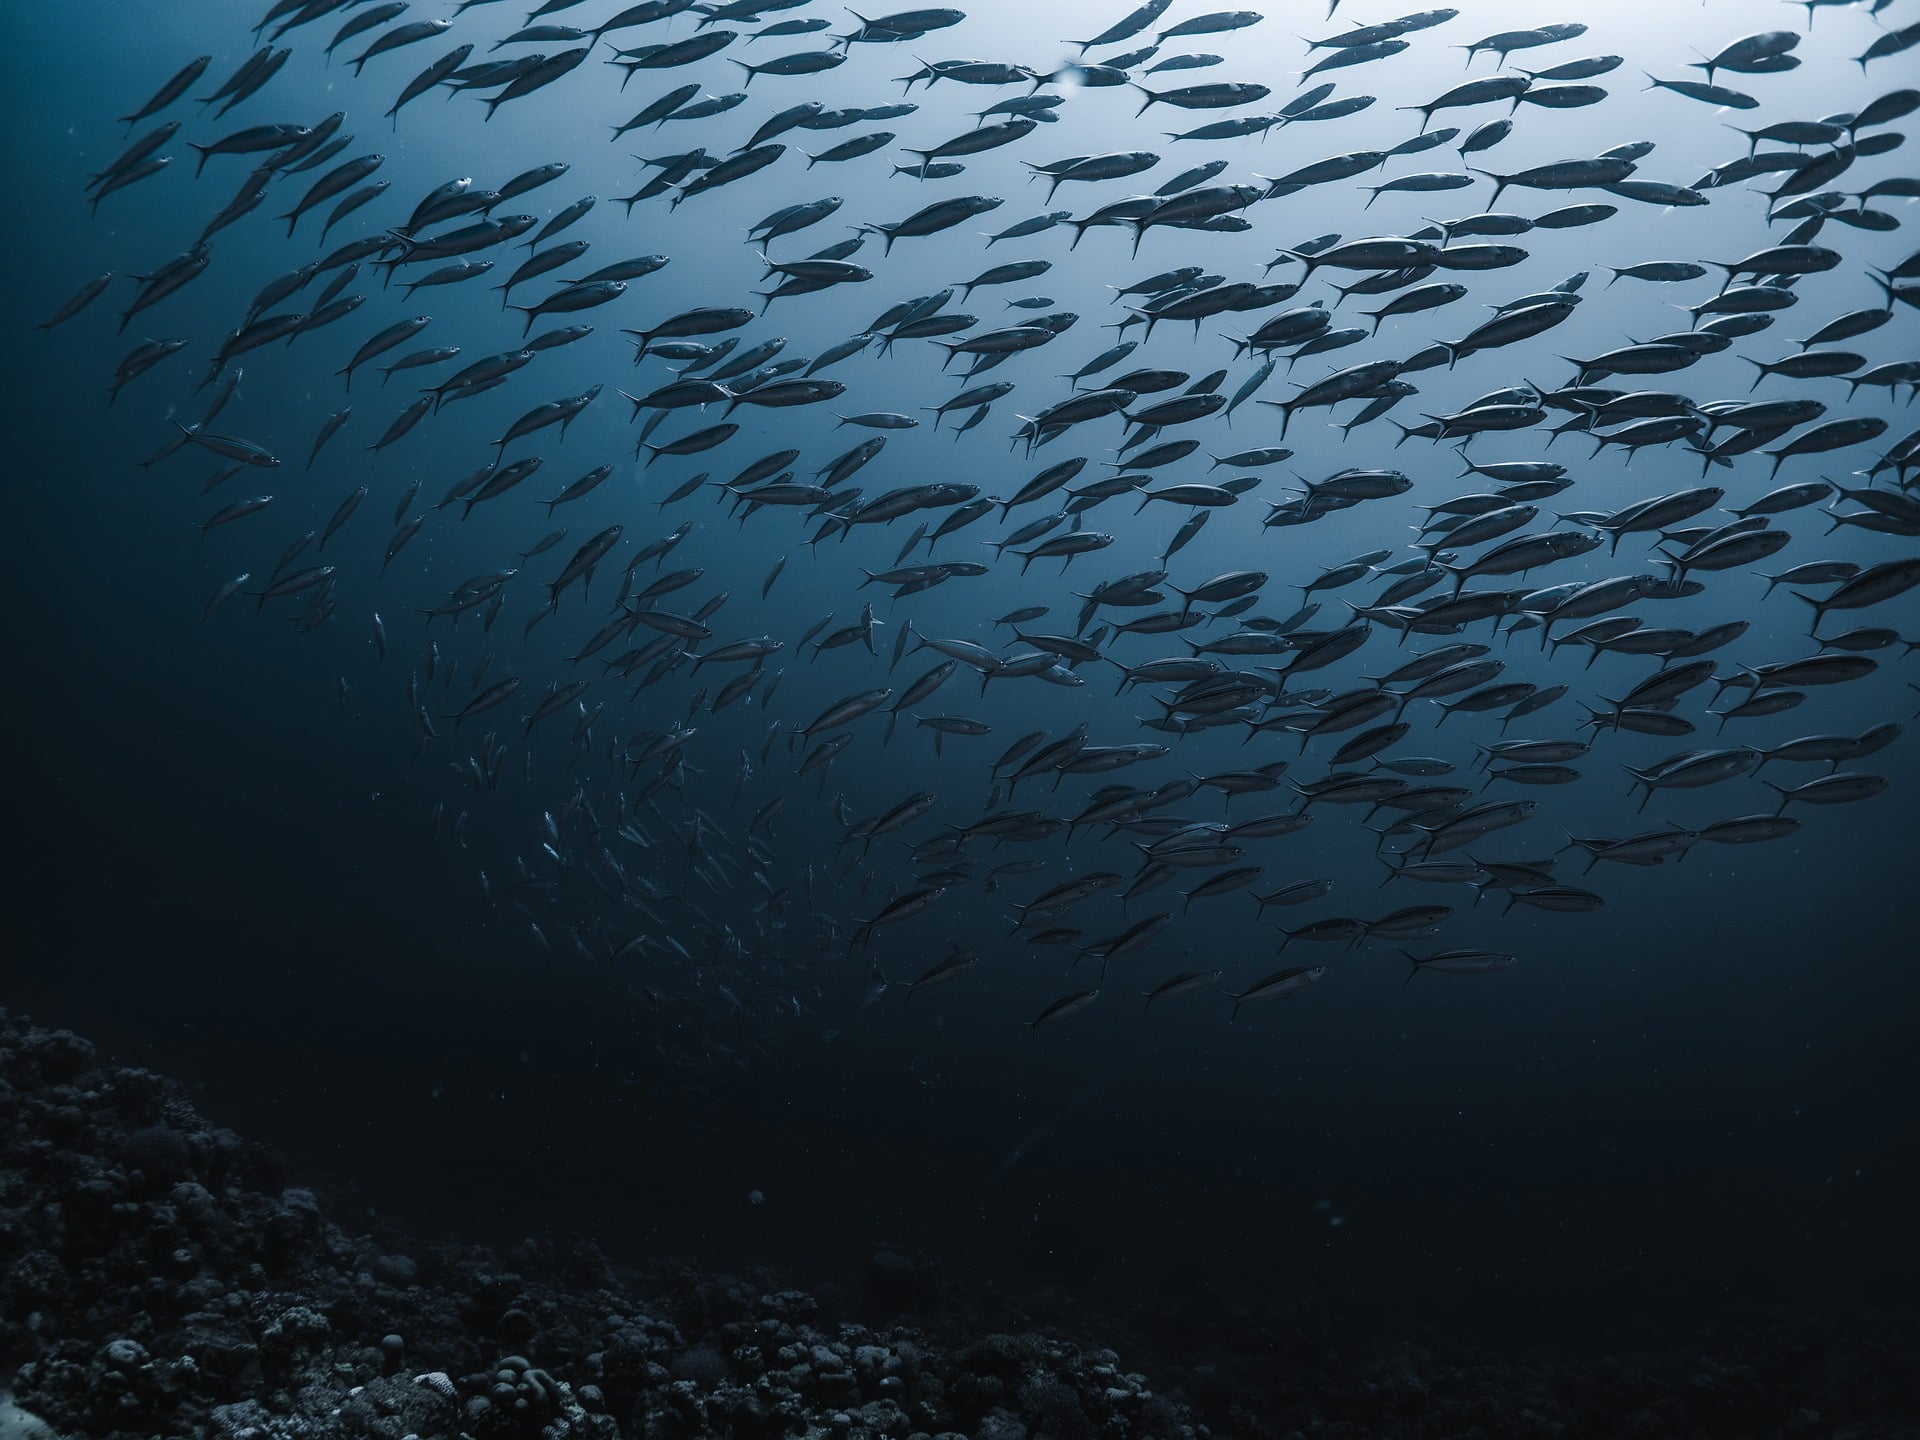
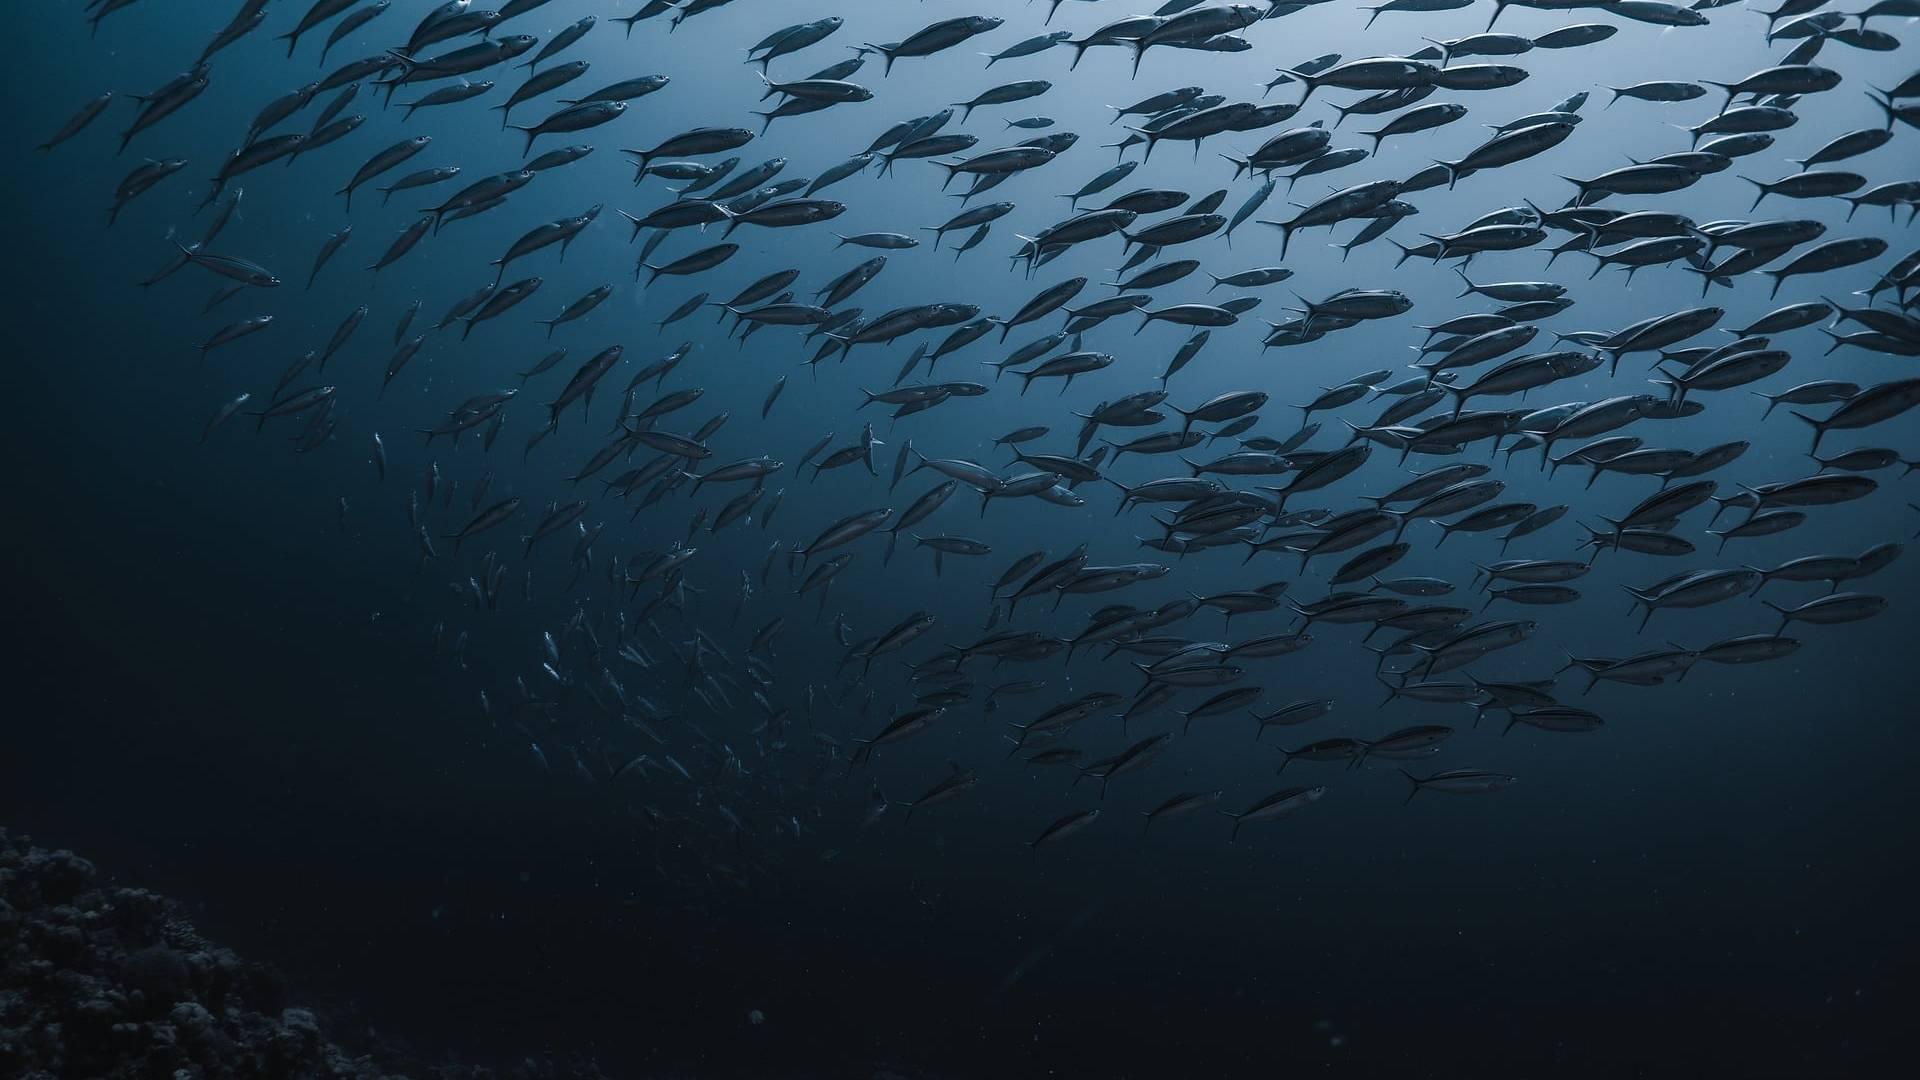
Update multimedia.html

diff --git a/boletin1/multimedia.html b/boletin1/multimedia.html
@@ -8,19 +8,24 @@
 </head>
 
 <body>
-    <section id="marcosIntegracionExterna">
-        <h1>Marcos e Integración Externa</h1>
 
-        <h2>Tarea A</h2>
+    <h1>Elementos Embebidos y Contenido Multimedia</h1>
+
+    <hr>
+    
+    <section id="marcosIntegracionExterna">
+        <h2>Marcos e Integración Externa</h2>
+
+        <h3>Tarea A</h3>
         <iframe width="560" height="315" src="https://www.youtube.com/embed/EvKm8yhM7V8?si=ZDK08_w37IkYTU0z"
             title="Vídeo tutorial de HTML5" frameborder="0"
             allow="accelerometer; autoplay; clipboard-write; encrypted-media; gyroscope; picture-in-picture; web-share"
             referrerpolicy="strict-origin-when-cross-origin" allowfullscreen loading="lazy"></iframe>
 
-        <h2>Tarea B</h2>
+        <h3>Tarea B</h3>
         <embed src="media/apuntes.pdf" type="application/pdf" , width="100%" , height="500px">
 
-        <h2>Tarea C</h2>
+        <h3>Tarea C</h3>
         <object data="https://www.wikipedia.org" type="text/html">Tu navegador no admite la visualización de este objeto
             incrustado</object>
     </section>
@@ -28,17 +33,16 @@
     <hr>
 
     <section id="reproductoresMultimediaNativos">
-        <h1>Reproductores Multimedia Nativos</h1>
+        <h2>Reproductores Multimedia Nativos</h2>
 
-        <h2>Tarea A</h2>
-        <!--cortar-->
+        <h3>Tarea A</h3>
         <video controls width="640" poster="media/portada.jpg">
             <source src="media/muestra.mp4" type="video/mp4">
             <source src="media/muestra.webm" type="video/webm">
             "Tu navegador no admite la visualización de este video"
         </video>
 
-        <h2>Tarea B</h2>
+        <h3>Tarea B</h3>
         <audio controls>
             <source src="media/pista.mp3" type="audio/mp3">
             <source src="media/pista.ogg" type="audio/ogg">
@@ -49,15 +53,15 @@
     <hr>
 
     <section id="graficosVectorialesMapaBits">
-        <h1>Gráficos Vectoriales y Mapa de Bits</h1>
+        <h2>Gráficos Vectoriales y Mapa de Bits</h2>
 
-        <h2>Tarea A</h2>
+        <h3>Tarea A</h3>
         <svg width="200" height="200">
             <rect x="0" y="0" width="100%" height="100%" fill="blue" />
             <circle cx="50%" cy="50%" r="25%" stroke-width="2%" stroke="red" fill="yellow" />
         </svg>
 
-        <h2>Tarea B</h2>
+        <h3>Tarea B</h3>
         <canvas id="miLienzo" width="300" height="150">
             "Tu navegador no soporta el elemento Canvas"
         </canvas>
